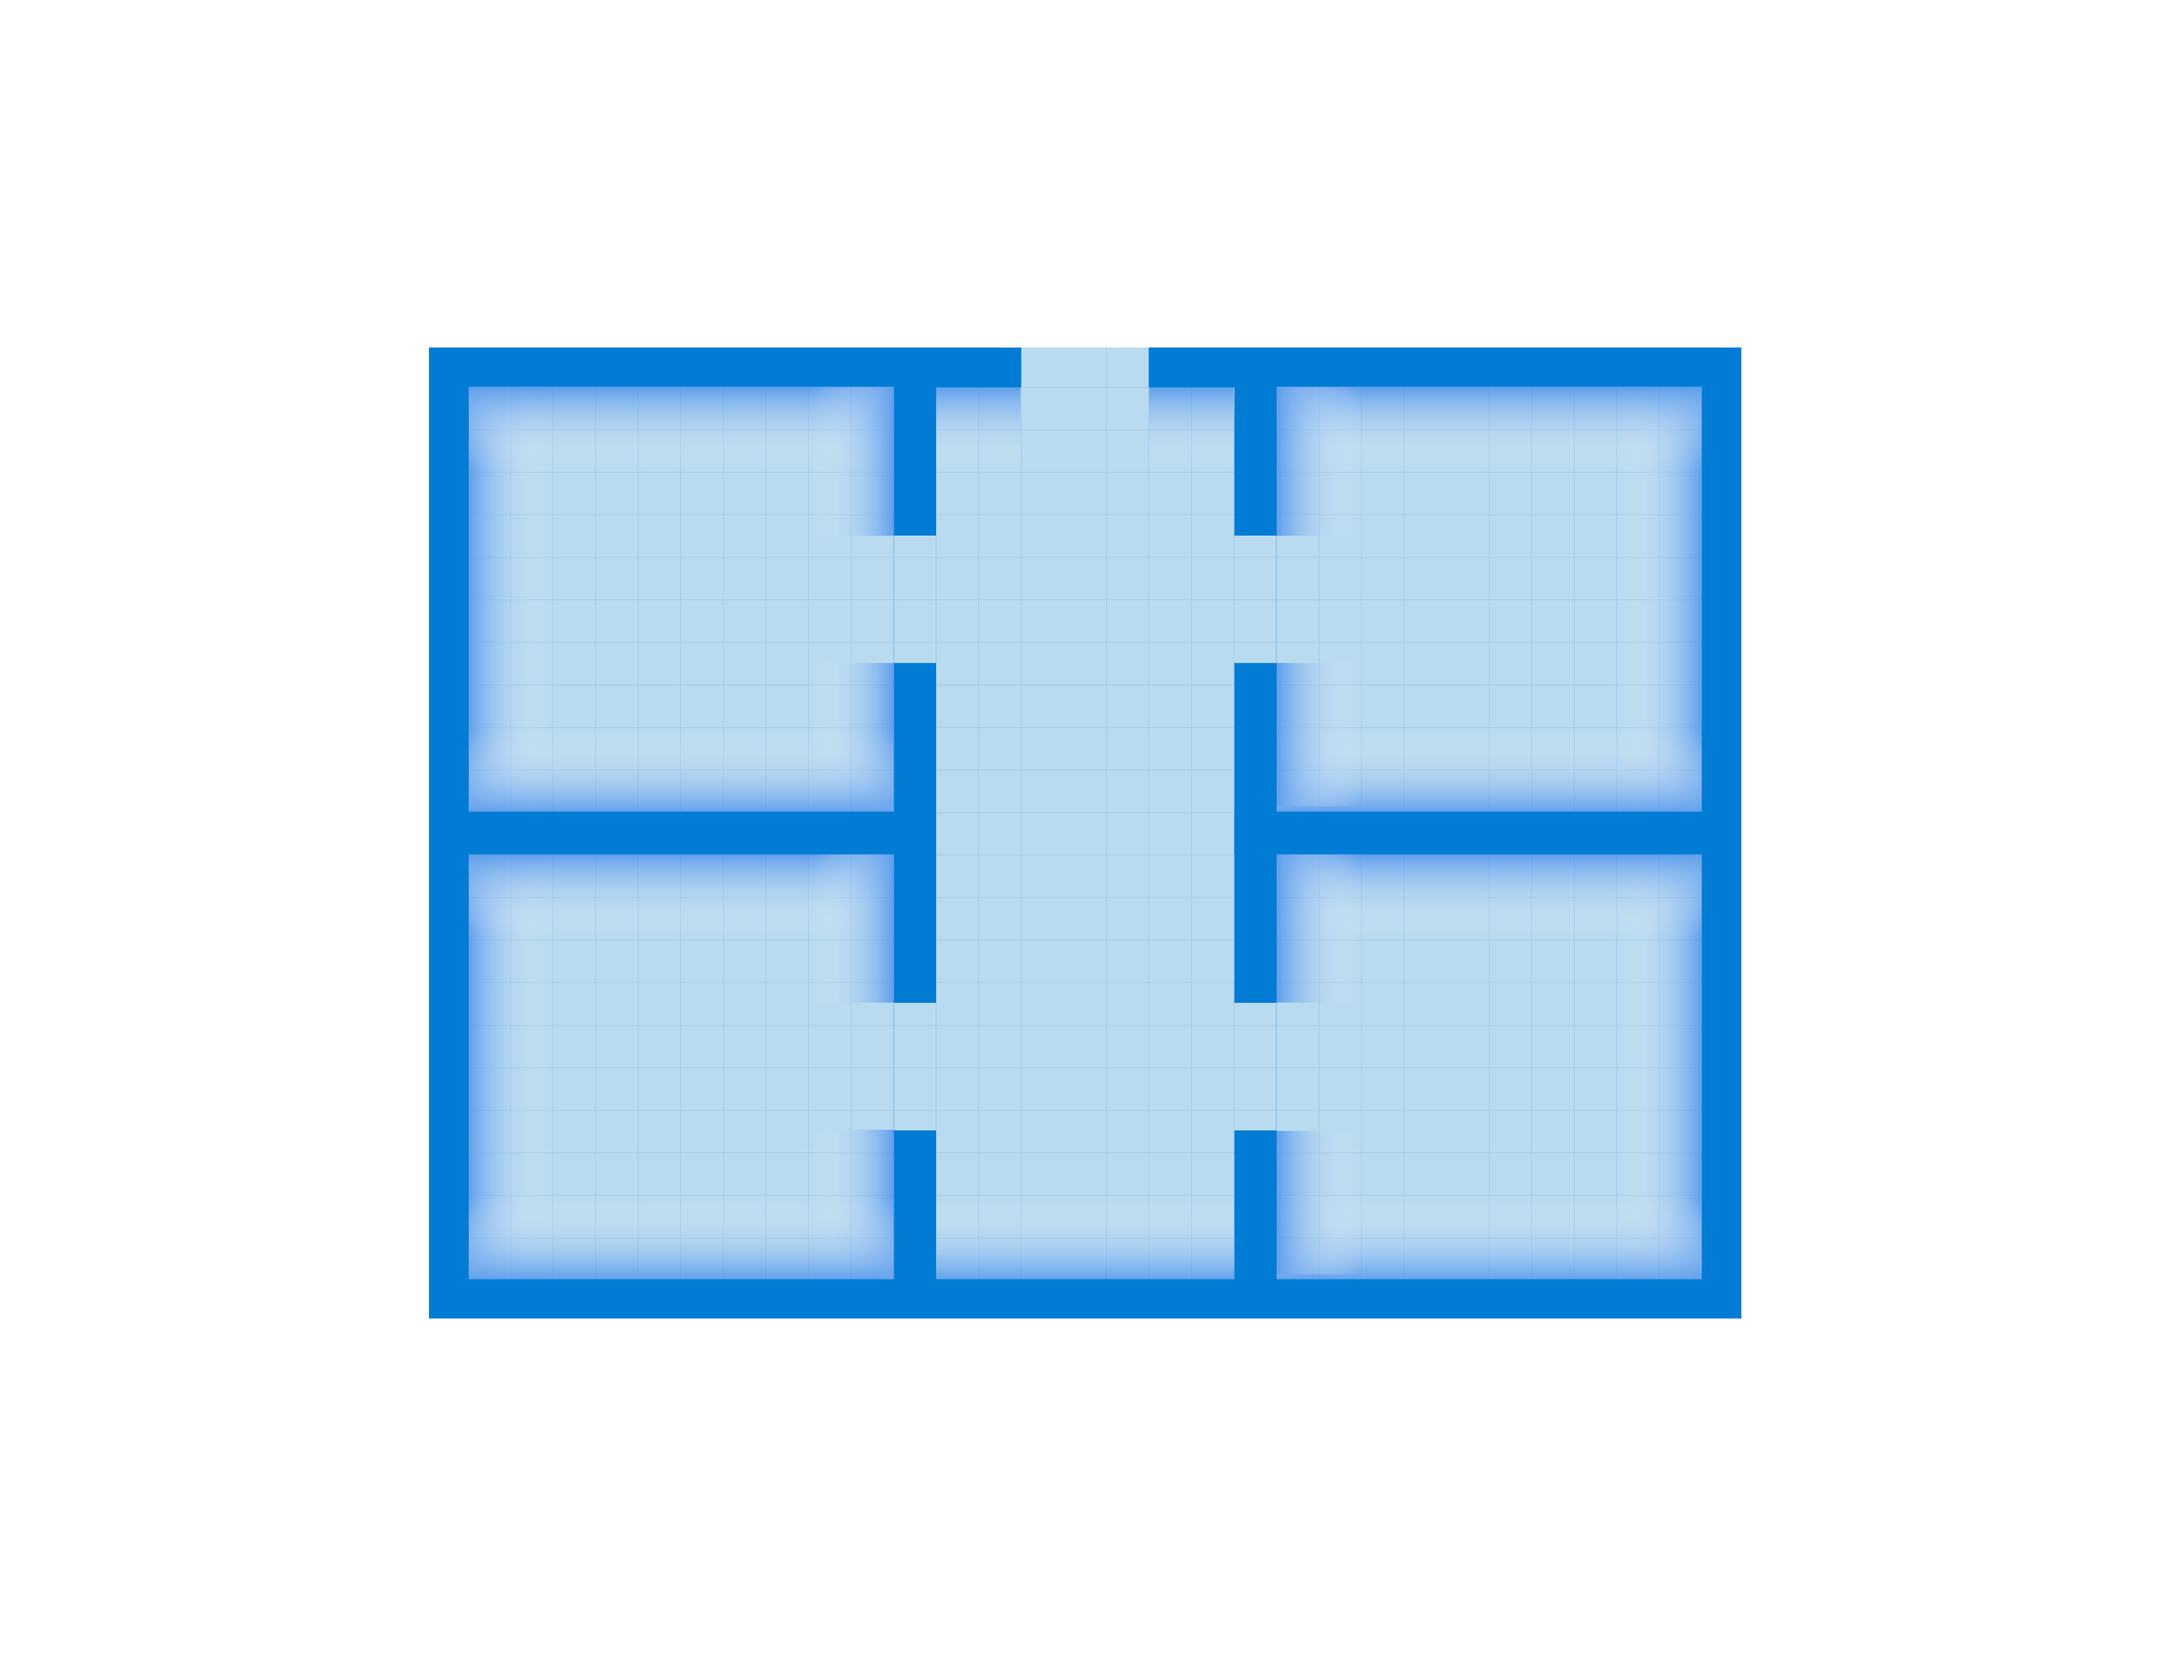
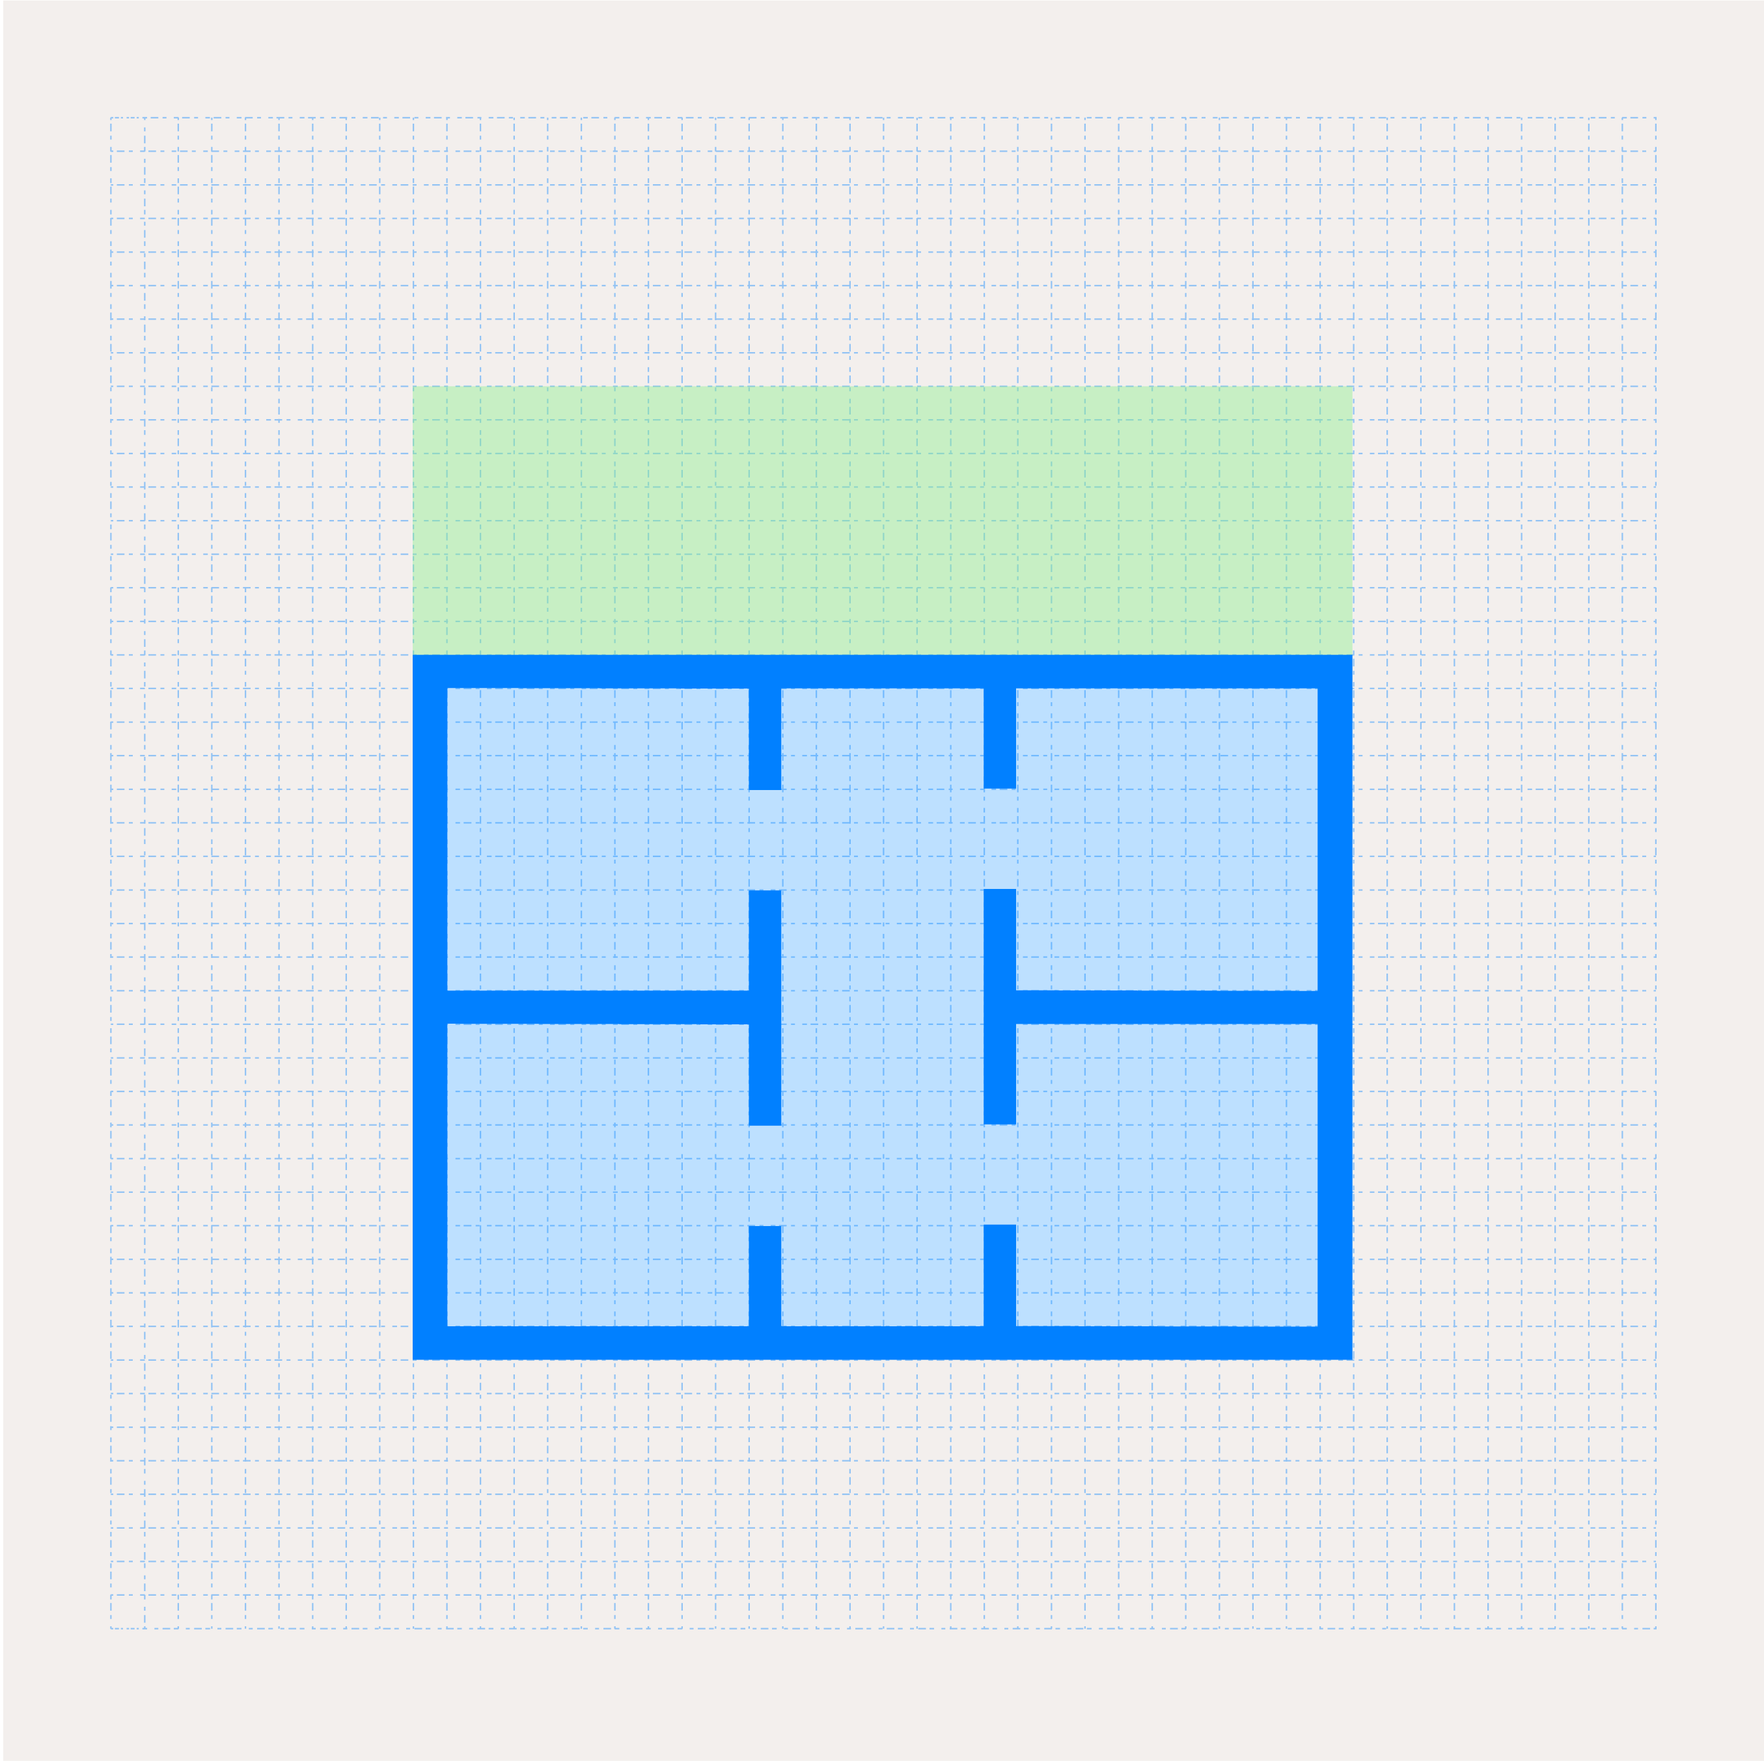
up

Changed region(s): [[0.186, 0.1875, 0.8059, 0.8125]]

diff --git a/Client/src/pages/Wizualizacja.vue b/Client/src/pages/Wizualizacja.vue
@@ -7,7 +7,7 @@
         </h3>
 
         <div class="visualization" style="position: relative; width: 980px;">
-          <img src="img/makieta.png" />
+          <img src="img/makieta2.png" />
 
           <div
             class="ds18b20"
@@ -36,8 +36,9 @@
             class="window"
             style="position: absolute; top: 300px; left: 790px;"
           >
-            <img src="img/window.png" style="width: 32px;" />
             <img :src="window_state" />
+            <img src="img/window.png" style="width: 32px;" />
+            
           </div>
 
           <div
